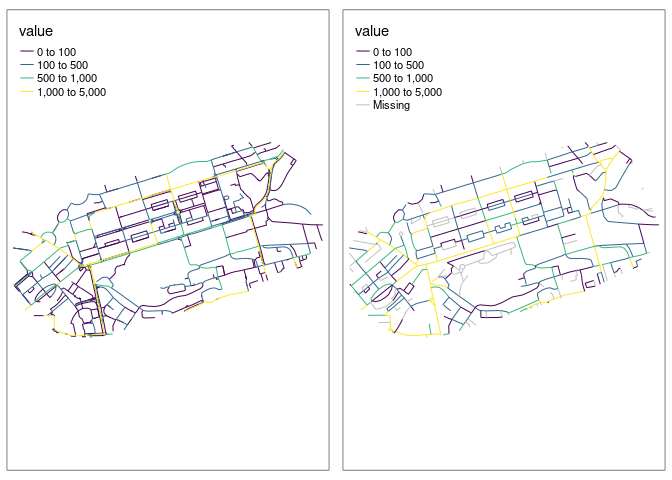
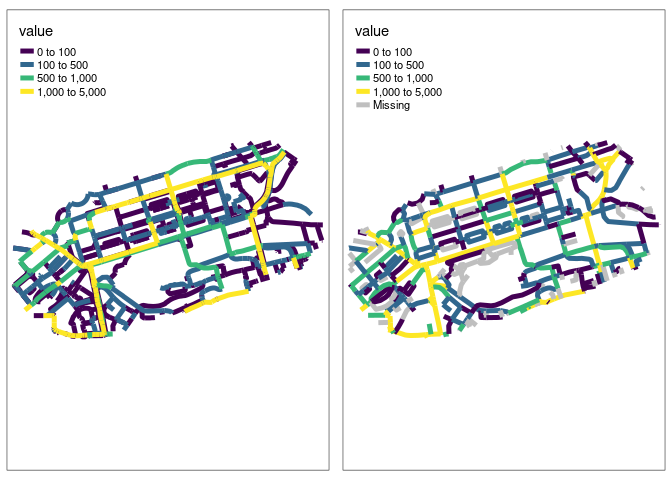
Add explanation section

Changed region(s): [[0.0, 0.2812, 1.0, 0.7188], [0.5312, 0.0938, 0.5625, 0.2188], [0.0312, 0.0938, 0.0625, 0.2188]]

diff --git a/merge.md b/merge.md
@@ -189,8 +189,8 @@ summary(input_simple_joined$flow)
          0   NULL   NULL 
 
 ``` r
-m1 = tm_shape(input_complex) + tm_lines("value", palette = "viridis", breaks = brks)
-m2 = tm_shape(input_simple_joined) + tm_lines("value", palette = "viridis", breaks = brks)
+m1 = tm_shape(input_complex) + tm_lines("value", palette = "viridis", lwd = 5, breaks = brks)
+m2 = tm_shape(input_simple_joined) + tm_lines("value", palette = "viridis", lwd = 5, breaks = brks)
 tmap_arrange(m1, m2, nrow = 1)
 ```
 
@@ -222,6 +222,15 @@ message("Total flow output: ", total_flow_output, "km")
 
     Total flow output: 17164km
 
+We can explore the results interactively as follows:
+
+``` r
+tmap_mode("view")
+m_combined = m1 + m2
+tmap_save(m_combined, "data/m_combined.html")
+browseURL("data/m_combined.html")
+```
+
 # Explanation
 
 To clarify what’s going on, lets do the process only for a couple of
@@ -230,7 +239,99 @@ lines, and break the process down into steps.
 ``` r
 input_simple_minimal = input_simple |>
   filter(identifier == "13CF96CE-2A95-451B-B859-E5511B2DEF81" | identifier == "C90C4EA9-5E6A-4A6A-ADEB-5EC5937F6C3A") 
-# tm_shape(input_simple_minimal) + tm_lines()
 ```
 
-The first stage is to take
+The `rnet_join()` function as of July 2023 is as follows:
+
+``` r
+rnet_join = function(rnet_x, rnet_y, dist = 5, length_y = TRUE, key_column = 1,
+                     subset_x = TRUE, dist_subset = 5, split_y = TRUE, ...) {
+  if (subset_x) {
+    rnet_x = rnet_subset(rnet_x, rnet_y, dist = dist_subset, ...)
+  }
+  rnet_x_buffer = geo_buffer(rnet_x, dist = dist, nQuadSegs = 2)
+  if (split_y) {
+    rnet_y = rnet_split_lines(rnet_y, rnet_x, dist = dist_subset)
+  }
+  if (length_y) {
+    rnet_y$length_y = as.numeric(sf::st_length(rnet_y))
+  }
+  rnetj = sf::st_join(rnet_x_buffer[key_column], rnet_y, join = sf::st_contains)
+  rnetj
+}
+
+rnet_subset = function(rnet_x, rnet_y, dist = 1, crop = TRUE, min_x = 3) {
+  rnet_x$length_x_original = as.numeric(sf::st_length(rnet_x))
+  rnet_y_union = sf::st_union(rnet_y)
+  rnet_y_buffer = stplanr::geo_buffer(rnet_y_union, dist = dist, nQuadSegs = 2)
+  if(crop) {
+    rnet_x = sf::st_intersection(rnet_x, rnet_y_buffer)
+    rnet_x = line_cast(rnet_x)
+    rnet_x$length_x_cropped = as.numeric(sf::st_length(rnet_x))
+    min_length = dist * min_x
+    sel_short = rnet_x$length_x_cropped < min_length &
+      rnet_x$length_x_original > min_length
+    rnet_x = rnet_x[!sel_short, ]
+  } else {
+    rnet_x[rnet_y_buffer, , op = sf::st_within]
+  }
+  rnet_x
+}
+rnet_split_lines = function(rnet_x, geo_y, dist = 1) {
+  if (all(grepl(pattern = "LINE", x = sf::st_geometry_type(rnet_x)))) {
+    geo_y = c(
+      lwgeom::st_startpoint(geo_y),
+      lwgeom::st_endpoint(geo_y)
+    )
+  }
+  # speed-up subsequent steps:
+  points = sf::st_union(geo_y)
+  points_buffer = stplanr::geo_buffer(points, dist = dist)
+  rnet_split = sf::st_difference(rnet_x, points_buffer)
+  rnet_split_lines = line_cast(rnet_split)
+  rnet_split_lines$length_osm_cast = as.numeric(sf::st_length(rnet_split_lines))
+  # rnet_split_lines[rnet_split_lines$length_osm_cast > min_lenth, ]
+  rnet_split_lines
+}
+line_cast = function(x) {
+  sf::st_cast(sf::st_cast(x, "MULTILINESTRING"), "LINESTRING")
+}
+```
+
+Let’s run these lines line-by-line, starting by creating `rnet_x` and
+`rnet_y` objects:
+
+``` r
+library(stplanr)
+```
+
+
+    Attaching package: 'stplanr'
+
+    The following objects are masked _by_ '.GlobalEnv':
+
+        line_cast, rnet_join, rnet_split_lines, rnet_subset
+
+``` r
+dist = 30
+rnet_x = input_simple_minimal
+rnet_x_buffer = geo_buffer(rnet_x, dist = dist, nQuadSegs = 2)
+rnet_y = input_complex[rnet_x_buffer, , op = sf::st_within]
+tm_shape(rnet_x_buffer) + tm_fill("identifier") + tm_shape(rnet_y) + tm_lines()
+```
+
+    Some legend labels were too wide. These labels have been resized to 0.66. Increase legend.width (argument of tm_layout) to make the legend wider and therefore the labels larger.
+
+![](merge_files/figure-commonmark/rnet-x-y-minimal-1.png)
+
+``` r
+m = tm_shape(input_simple_minimal) + tm_lines(lwd = 5) +
+  qtm(input_simple)
+tmap_save(m, "maps/m_explanation.html")
+```
+
+    Interactive map saved to maps/m_explanation.html
+
+``` r
+# browseURL("maps/m_explanation.html")
+```
